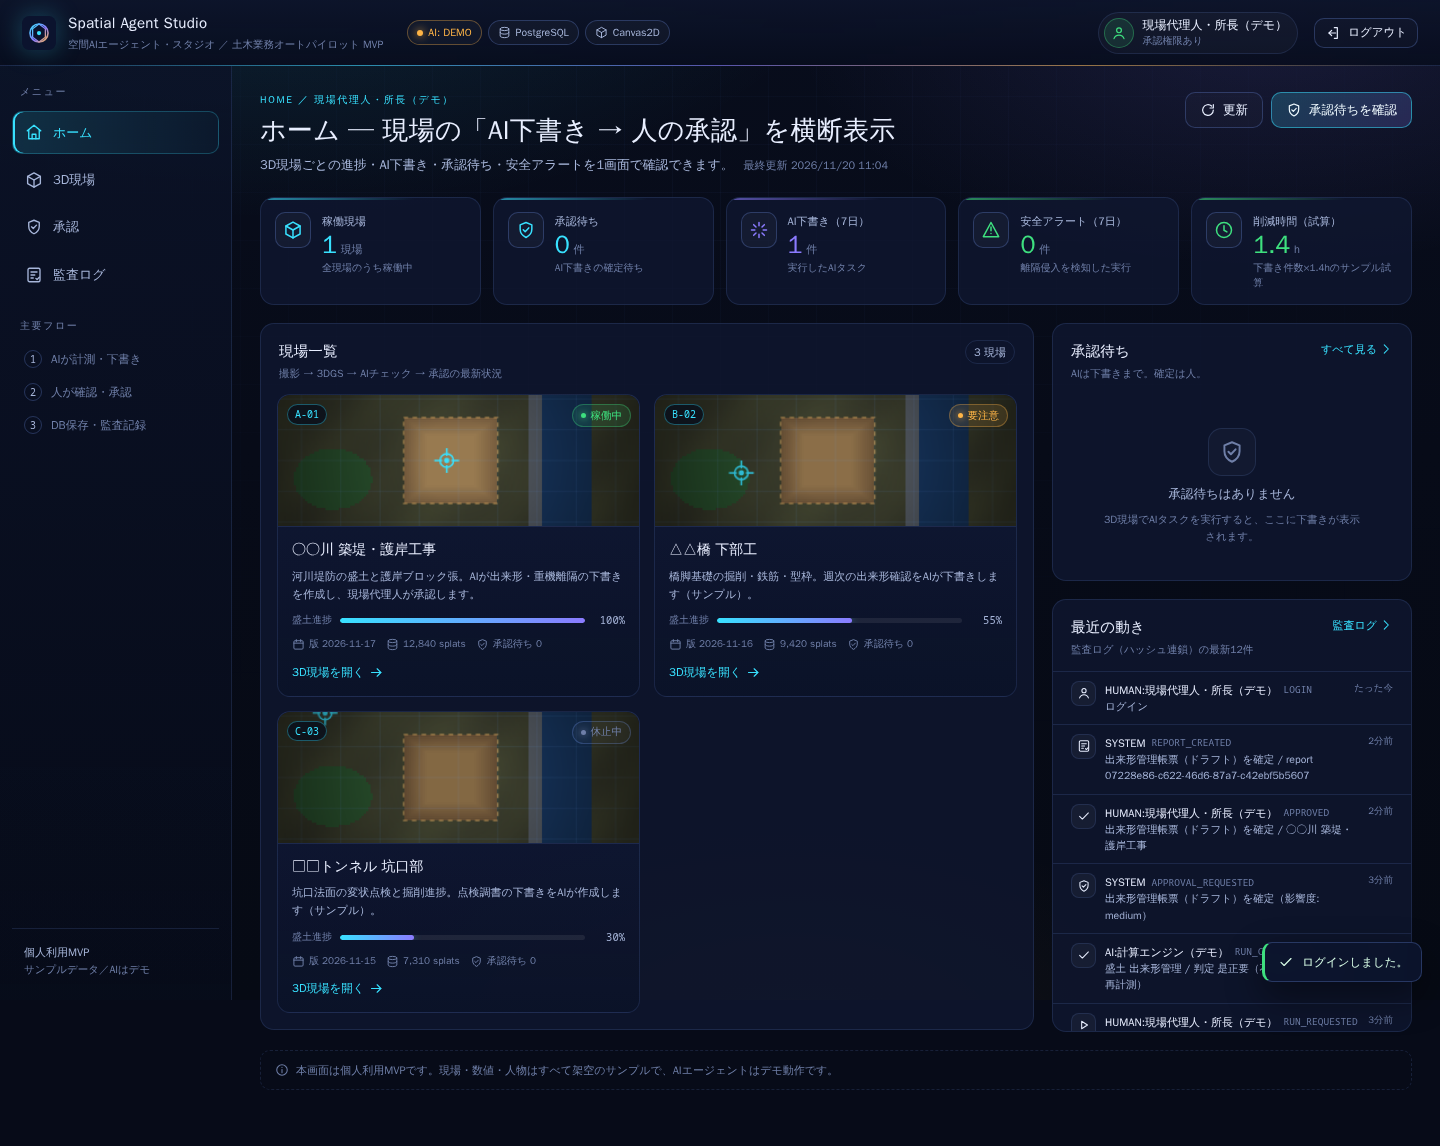
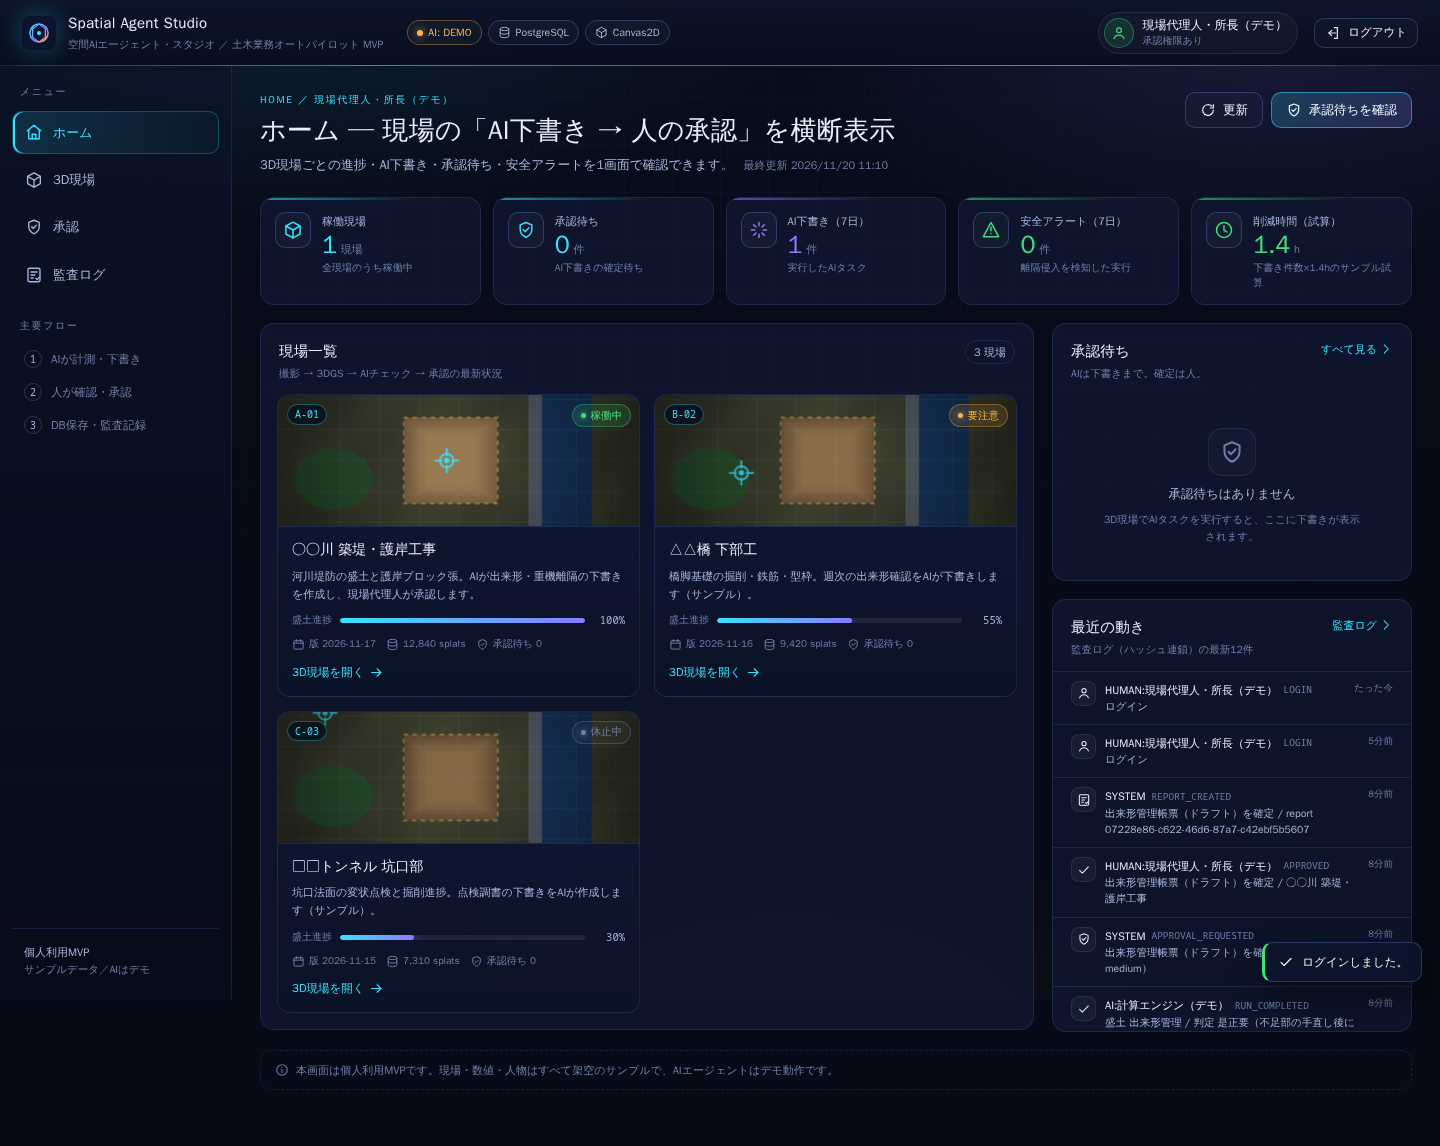
docs: record GitHub merge and post-merge preview verification (#2)
- PR #1 merge commit 0134a1c
- Pages redeployed from the merged commit (45b9e8ff)
- Post-merge preview smoke PASS (health, CORS, login, 3D, audit)
- Refresh evidence screenshots/JSON and progress state

Changed region(s): [[0.75, 0.6414, 0.9688, 0.9162], [0.9375, 0.7941, 0.9688, 0.8246], [0.9375, 0.6719, 0.9688, 0.7024]]

diff --git a/docs/progress/evidence/preview-verification.md b/docs/progress/evidence/preview-verification.md
@@ -1,36 +1,36 @@
 # Cloudflare Preview 検証記録
 
-実施日時：2026-11-20 11:00〜11:05 JST（UTC 02:00〜02:05）
+実施日時：2026-11-20 11:00〜11:10 JST（UTC 02:00〜02:10）
 実施者：DeepSeek Harness 主エージェント（CTO権限委譲）
+対象コミット：`0134a1c63276cbd0f511377b87f874bbc4e76977`（PR #1 マージコミット）
 
 ## 1. 配備対象
 
 | 項目 | 値 |
 | :-- | :-- |
-| WebUI | <https://spatial-agent-studio-preview.pages.dev> |
+| WebUI（安定URL） | <https://spatial-agent-studio-preview.pages.dev> |
+| マージ後デプロイ | <https://45b9e8ff.spatial-agent-studio-preview.pages.dev> |
+| 初回デプロイ（pre-merge） | <https://046f4340.spatial-agent-studio-preview.pages.dev> |
 | Pagesプロジェクト | `spatial-agent-studio-preview`（branch: `preview`） |
-| 直近デプロイ | <https://046f4340.spatial-agent-studio-preview.pages.dev> |
-| デプロイ時刻 | 2026-11-20 10:59 JST 頃 |
-| アップロード | 5 files + `_headers` |
+| 対象コミット | `0134a1c`（PR #1 squash merge） |
 | API | <https://sas-api.mirai-dx-platform.com> |
 | APIプロセス | ローカルFastify `127.0.0.1:7450`（`nohup`） |
 | Tunnel | `spatial-agent-studio` / `5290da16-d855-4b5b-9eac-0d2d566bfc39` |
 | DB | ローカルPostgreSQL `spatial_agent_studio_preview` |
-| 対象コミット | 初回MVPコミット（GitHub反映前のローカル状態） |
 
-## 2. APIヘルスチェック
+## 2. APIヘルスチェック（マージ後）
 
 ```bash
 curl -s https://sas-api.mirai-dx-platform.com/api/health
 ```
 
 ```json
-{"ok":true,"db":"up","version":"0.1.0","time":"2026-11-20T02:00:18.139Z","aiMode":"demo-deterministic"}
+{"ok":true,"db":"up","version":"0.1.0","time":"2026-11-20T02:10:03.363Z","aiMode":"demo-deterministic"}
 ```
 
 **結果：PASS**
 
-## 3. CORSプリフライト
+## 3. CORSプリフライト（マージ後）
 
 ```bash
 curl -i -X OPTIONS https://sas-api.mirai-dx-platform.com/api/bootstrap \
@@ -66,19 +66,25 @@ Playwright（Chromium headless）で以下を実行。
 
 再実行可能なスモーク：`node scripts/preview-smoke.mjs`（`PREVIEW SMOKE: PASS`）。
 
-## 5. DB状態（Preview）
+### 初回（pre-merge）とマージ後の確認
+
+- 初回：`046f4340` デプロイ、API health 02:00:18Z、CORS 204、UIフロー成功、監査 rows=8。
+- マージ後：`0134a1c` から再ビルドして `45b9e8ff` に再配備。安定URLで再スモークし、監査 rows=9 を確認。
+- **対象コミット `0134a1c` とデプロイの対応を確認済み。**
+
+## 5. DB状態（Preview、マージ後スモーク時点）
 
 ```text
-users=2  sites=3  runs=1  approvals=1  reports=1  audit_events=8
+users=2  sites=3  runs=1  approvals=1  reports=1  audit_events=9
 approval: status=approved, verdict=是正要（不足部の手直し後に再計測）, decided_atあり
 site-a latest version: 2026-11-18 progress=1.000
 ```
 
-監査ログHEAD（seq 8）：
+監査ログHEAD（seq 9）：
 
 ```text
-seq=8  actor=HUMAN:現場代理人・所長（デモ）  type=LOGIN
[1 lines of base64/hex data omitted]
+seq=9  actor=HUMAN:現場代理人・所長（デモ）  type=LOGIN
[1 lines of base64/hex data omitted]
 ```
 
 ## 6. 監査・権限の確認
@@ -89,9 +95,11 @@ hash=992263faa144e79d8121cd10d1782cfa638c2969f3f2e6f28b5826888d58d75a
 | staff の承認API | `HTTP 403` + 監査 `DENY` |
 | 二重承認 | `HTTP 409 ALREADY_DECIDED` |
 | 未認証 bootstrap | `HTTP 401 UNAUTHENTICATED` |
-| 監査チェーン検証 | `ok=true`, checked=8（Preview時点） |
+| 監査チェーン検証 | `ok=true`（PreviewスモークでVERIFIED） |
 
 ## 7. バックアップ・リストア訓練
+
+初回検証時点（監査8件）で実施。
 
 ```bash
 pg_dump -Fc -d spatial_agent_studio_preview -f /tmp/sas-preview.dump
@@ -104,7 +112,7 @@ dropdb spatial_agent_studio_restore_test
 結果：
 
 - ダンプ取得成功（31KB）。
-- リストア後：`audit=8`, `reports=1`, `approvals=1`。
+- リストア後：`audit=8`, `reports=1`, `approvals=1`（訓練時点）。
 - 警告：`transaction_timeout` はリストア先のバージョン差で無視（データ整合性に影響なし）。
 - 訓練用DBは削除済み。
 
@@ -123,5 +131,5 @@ dropdb spatial_agent_studio_restore_test
 - Cloudflare Access等のエッジ認証は未設定。Pages URLは公開（デモデータのみ）。
 - 実LLM/実3DGSは未接続（デモ）。
 - GitHub Actions CIは未適用（ハーネスポリシー）。ローカルで同一検証を実行済み。
-- Previewの対象コミットはGitHub反映前のローカル状態。GitHub反映後に同一ビルドを再配備し、
-  対象コミットとの対応を再確認する必要がある（未実施）。
+  `templates/ci/ci.yml` を人間が `.github/workflows/ci.yml` に適用する必要がある。
+- WebUI設計仕様 v1.0 は承認待ち。

diff --git a/docs/progress/progress.md b/docs/progress/progress.md
@@ -1,6 +1,6 @@
 # 進捗・判断・証跡 — Spatial Agent Studio MVP
 
-最終更新：2026-11-20 11:05 JST
+最終更新：2026-11-20 11:12 JST
 
 ## 1. 現在の状態
 
@@ -10,9 +10,11 @@
 | 主要フロー（出来形管理） | **E2E成功**（ローカル / Cloudflare Preview） |
 | 安全離隔フロー | **API/UI成功**（侵入判定・承認権限） |
 | 承認・監査 | **成功**（ハッシュ連鎖VERIFIED、改ざん拒否） |
-| Cloudflare Pages Preview | **配備済み・実操作確認済み** |
+| Cloudflare Pages Preview | **配備済み・実操作確認済み（対象コミット `0134a1c`）** |
 | Cloudflare Tunnel API | **稼働・疎通確認済み** |
-| GitHubリポジトリ / PR | 未実施（この直後に実施） |
+| GitHubリポジトリ | **PUBLIC** https://github.com/Kensan196948G/Spatial-Agent-Studio |
+| GitHub PR | **#1 MERGED** https://github.com/Kensan196948G/Spatial-Agent-Studio/pull/1 |
+| マージコミット | `0134a1c63276cbd0f511377b87f874bbc4e76977`（2026-11-20 11:09 JST） |
 | GitHub Actions CI | **未適用（ハーネスポリシーでブロック）**。テンプレートを用意 |
 | 設計仕様の承認 | 承認待ち（v1.0） |
 
@@ -75,7 +77,7 @@
 
 ### Preview実操作の記録
 
-- URL：<https://spatial-agent-studio-preview.pages.dev>
+- URL：<https://spatial-agent-studio-preview.pages.dev>（マージ後デプロイ：<https://45b9e8ff.spatial-agent-studio-preview.pages.dev>）
 - ログイン：`manager@example.com`
 - 3D現場：`site-a`（○○川 築堤・護岸工事）
 - AI実行：盛土 出来形管理 → 6ステップ表示
@@ -85,6 +87,16 @@
 - API：`https://sas-api.mirai-dx-platform.com/api/health` → `{"ok":true,"db":"up"}`
 
 詳細：[evidence/preview-verification.md](evidence/preview-verification.md)
+
+## 5.1 GitHub
+
+- リポジトリ：[Kensan196948G/Spatial-Agent-Studio](https://github.com/Kensan196948G/Spatial-Agent-Studio)（PUBLIC）
+- PR #1：[feat: Spatial Agent Studio MVP](https://github.com/Kensan196948G/Spatial-Agent-Studio/pull/1)
+- auto-merge：有効化して予約。必須チェック未設定のため即時マージ（2026-11-20 11:09 JST）
+- マージコミット：`0134a1c63276cbd0f511377b87f874bbc4e76977`
+- CI：`.github/workflows/**` はハーネスポリシーで追加不可。`templates/ci/ci.yml` を人間が適用する。
+- ローカル検証：typecheck / lint / unit 7 / API 8 / E2E 3 / build / secret-scan すべてPASS。
+- Preview再配備：`0134a1c` から再ビルドし `45b9e8ff` に配備、安定URLで再スモークPASS。
 
 ## 6. デバッグ・修正履歴
 
@@ -114,8 +126,8 @@
 
 ## 8. 次の一手
 
-1. GitHubリポジトリ作成 → `feat/mvp` ブランチ → PR → ローカル検証証跡を本文に記載。
-2. CIテンプレートの人間適用（またはPR上でCI未実行を明示してマージ判断）。
-3. 設計仕様v1.0の承認判断（1/2/3）。
-4. Previewを常設化する場合、systemd unitを人間が有効化。
-5. 本番化する場合、実データ・認証・外部連携のBacklogを起票。
+1. CIテンプレートの人間適用（`cp templates/ci/ci.yml .github/workflows/ci.yml`）。
+2. 設計仕様v1.0の承認判断（1/2/3）。
+3. Previewを常設化する場合、systemd unitを人間が有効化。
+4. 本番化する場合、実データ・認証・外部連携のBacklogを起票。
+5. マージ後の追加改修は新しいブランチ + PRで行う。

diff --git a/docs/deploy.md b/docs/deploy.md
@@ -7,9 +7,11 @@
 | WebUI | Cloudflare Pages（静的SPA、Previewプロジェクト） | <https://spatial-agent-studio-preview.pages.dev> |
 | API | ローカルFastify（port 7450） + Cloudflare Tunnel | <https://sas-api.mirai-dx-platform.com> |
 | DB | ローカルPostgreSQL `spatial_agent_studio_preview` | localhost only |
+| 対象コミット | `0134a1c`（PR #1 merge） | — |
 
 - Pagesプロジェクト：`spatial-agent-studio-preview`（production branch: `preview`）
-- 直近のデプロイURL：<https://046f4340.spatial-agent-studio-preview.pages.dev>
+- 直近のデプロイURL：<https://45b9e8ff.spatial-agent-studio-preview.pages.dev>（対象コミット `0134a1c`）
+- 初回デプロイURL：<https://046f4340.spatial-agent-studio-preview.pages.dev>
 - Tunnel：`spatial-agent-studio` / `5290da16-d855-4b5b-9eac-0d2d566bfc39`
 - DNS：`sas-api.mirai-dx-platform.com` → `5290da16-....cfargotunnel.com`（proxied）
 - 本番環境ではありません。Cloudflare Access等のエッジ認証は付けていません（アプリのログインで保護）。
@@ -58,7 +60,7 @@ nohup env \
   NODE_ENV=production \
   PORT=7450 HOST=127.0.0.1 \
   APP_ORIGIN=https://spatial-agent-studio-preview.pages.dev \
-  CORS_ORIGINS=https://spatial-agent-studio-preview.pages.dev,https://046f4340.spatial-agent-studio-preview.pages.dev \
+  CORS_ORIGINS=https://spatial-agent-studio-preview.pages.dev,https://45b9e8ff.spatial-agent-studio-preview.pages.dev \
   COOKIE_SECURE=true \
   DATABASE_URL='postgresql:///spatial_agent_studio_preview?host=/var/run/postgresql' \
   node_modules/.bin/tsx src/api/server.ts \

diff --git a/README.md b/README.md
@@ -32,6 +32,9 @@
 | ローカルWeb（Vite） | <http://127.0.0.1:5174> |
 
 PreviewのAPIは、このホストのローカルPostgreSQL（`spatial_agent_studio_preview`）に接続しています。
+対象コミット：`0134a1c`（PR #1 merge）／GitHub：<https://github.com/Kensan196948G/Spatial-Agent-Studio>
+
+![Cloudflare Preview dashboard](docs/progress/evidence/preview-dashboard.png)
 
 ### デモアカウント
 
@@ -209,6 +212,7 @@ Previewは次の2部品で構成しています。
 - スマートフォン詳細最適化は未実施（PCブラウザ中心）。
 - Cloudflare PreviewのAPIはこのホストが起動している間のみ利用可能。
 - **GitHub ActionsのCIワークフローは未適用**：ハーネスの `DEPLOY=critical` ポリシーが `.github/workflows/**` へのAI書き込みを拒否するため、[templates/ci/ci.yml](templates/ci/ci.yml) を人間がコピーして適用する必要があります。ローカルでは同一内容の検証を実行済みです。
+- **WebUI設計仕様 v1.0 は承認待ち**：既存V2.1デザインのMVP適用として実装済み。
 
 ---
 
